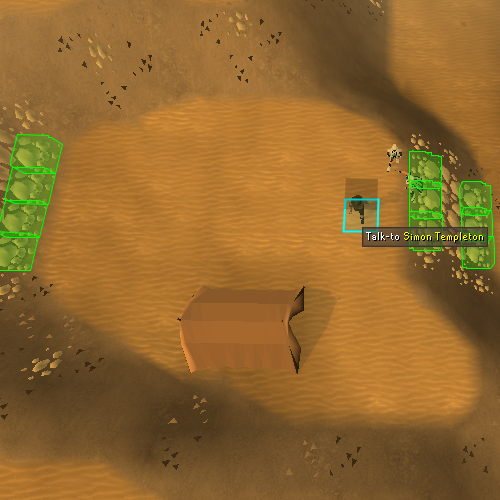
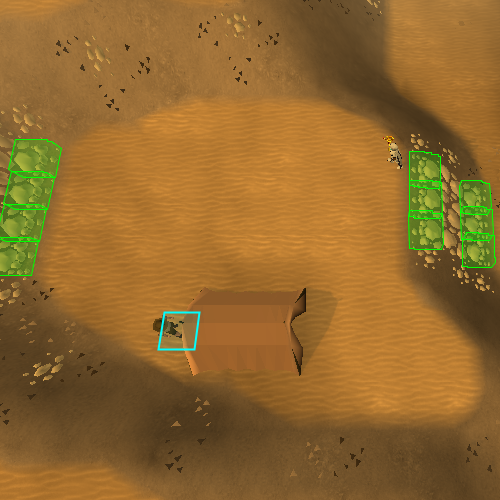
fixed script to adjust location after pt3

diff --git a/agility_pyramid/agility_pyramid.py b/agility_pyramid/agility_pyramid.py
@@ -121,15 +121,22 @@ def main():
     initialize_pag()
     for n in range(1, 4):
         play_actions('agility_pyramid_pt1.json')
-        time.sleep(3)
+        time.sleep(4)
         wait_for('pyramid_block_1.png', c=0.98)
+
         play_actions('agility_pyramid_pt2.json')
-        time.sleep(3)
+        time.sleep(4)
         wait_for('pyramid_block_2.png', c=0.95)
+
         play_actions('agility_pyramid_pt3.json')
-        time.sleep(3)
-        check_position(954, 506, (0, 255, 0), 5)
+        time.sleep(6)
+        check_position(1140, 440, (255, 0, 0), 5)
+
         play_actions('agility_pyramid_pt4.json')
+        time.sleep(4)
+        check_position(954, 506, (0, 255, 0), 5)
+
+        play_actions('agility_pyramid_pt5.json')
         time.sleep(7)
         print(f'Lap {n} done!')
 

diff --git a/opencv/opencv_testing.py b/opencv/opencv_testing.py
@@ -26,8 +26,13 @@ def locate_simon():
 
 start_time = time.time()
 elapsed_time = 0
-
 while elapsed_time < 10:
-    pag.moveTo(locate_simon())
+    simon_movement = [locate_simon(), locate_simon()]
+    if simon_movement[-1] == simon_movement[-2]:
+        pag.moveTo(simon_movement[-1])
+        pag.click()
+        print(simon_movement)
+        break
     elapsed_time = time.time() - start_time
     print(elapsed_time)
+

diff --git a/Image_recogniton.py b/Image_recogniton.py
@@ -25,6 +25,7 @@ def check_inv():
 
 def check_pixel(x, y, rgb, t=5):
     if pag.pixelMatchesColor(x, y, rgb, tolerance=t):
+        print('In position!')
         pass
     else:
         pag.moveTo(972 + p(-4, 4), 535 + p(-4, 4), r(0.25, 0.75))
@@ -45,4 +46,4 @@ def wait_for(image):
             time.sleep(0.25)
 
 
-check_pixel(954, 506, (0, 255, 0), 5)
+check_pixel(1140, 440, (255, 0, 0), 5)
